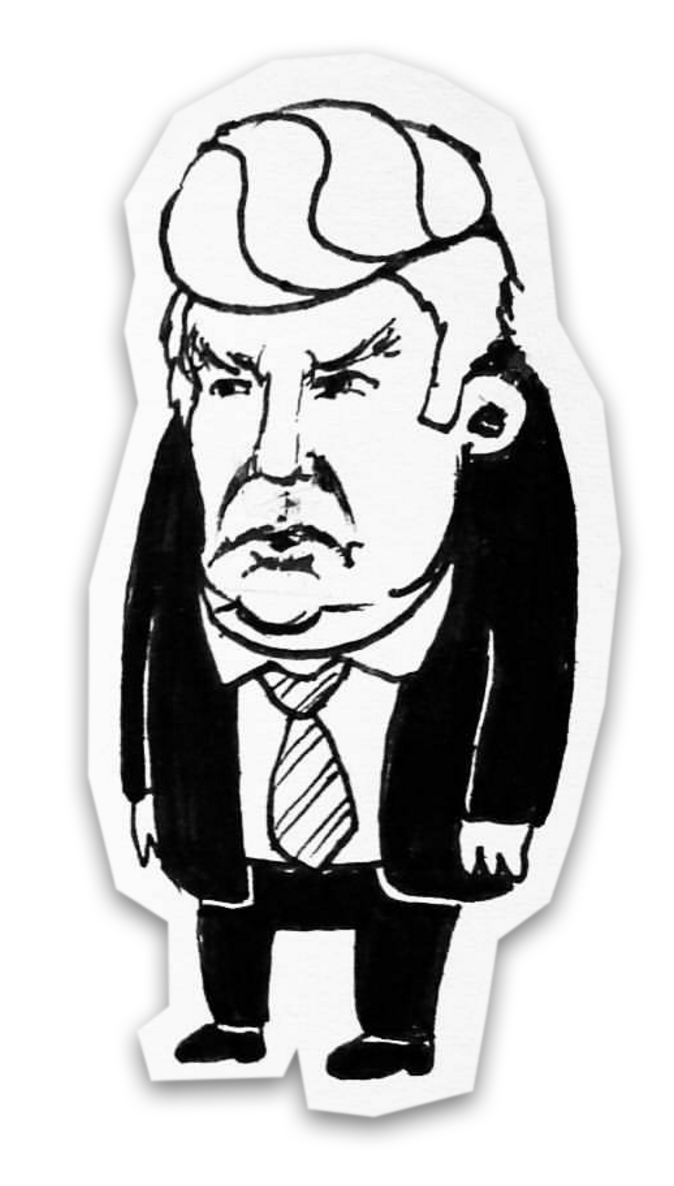
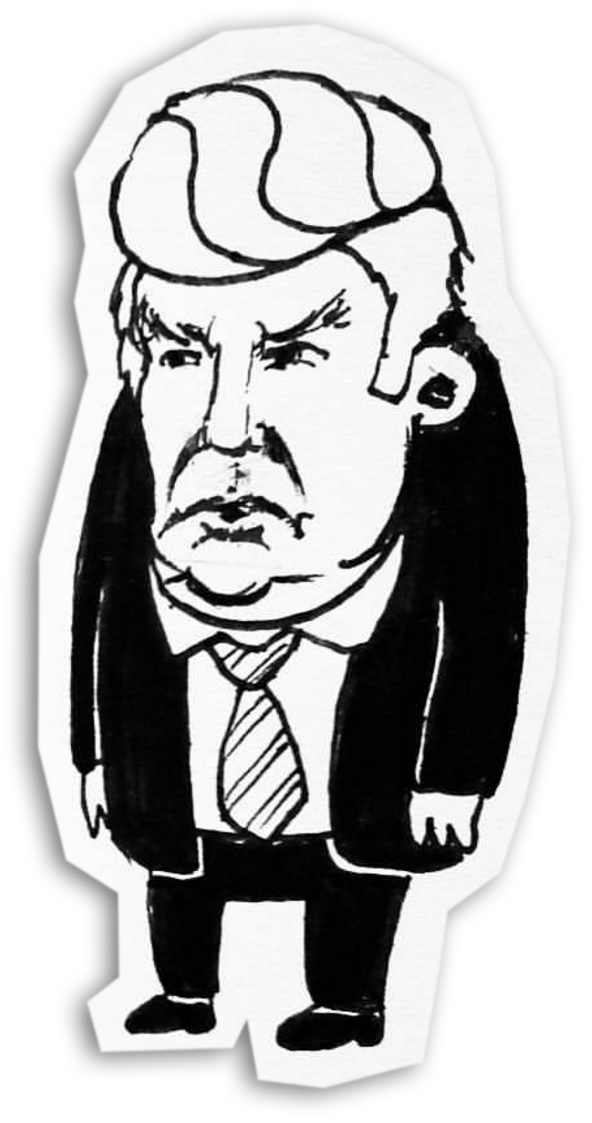
draw images to canvas at their positions

Changed region(s): [[0.0304, 0.0, 0.9426, 0.9973]]

diff --git a/client/app/views/Canvas.js b/client/app/views/Canvas.js
@@ -10,8 +10,13 @@ define(['jquery',
     var CanvasView = Backbone.View.extend({
 
       initialize: function () {
+        this.originalSceneSize = 1400;
         this.width = this.$el.width();
         this.height = this.$el.height();
+
+        this.scaleFactor = (this.width > this.height ? this.height : this.width) / this.originalSceneSize;
+        this.offsetX = (this.width - (this.originalSceneSize * this.scaleFactor)) / 2;
+        this.offsetY = (this.height - (this.originalSceneSize * this.scaleFactor)) / 2;
 
         // Create the renderer
         this.renderer = PIXI.autoDetectRenderer(this.width, this.height, {transparent: true});
@@ -22,10 +27,29 @@ define(['jquery',
         // Create a container object
         this.stage = new PIXI.Container();
 
-        // Tell the renderer to render the stage
-        this.renderer.render(this.stage);
-      }
+        this.update();
+      },
 
+      update: function () {
+        this.renderer.render(this.stage);
+      },
+
+      drawImage: function (imagePath, originalPos) {
+        PIXI.loader.add(imagePath).load(imageHasLoaded.bind(this));
+
+        function imageHasLoaded() {
+          var image = new PIXI.Sprite( PIXI.loader.resources[imagePath].texture );
+
+          image.width = image.width * this.scaleFactor;
+          image.height = image.height * this.scaleFactor;
+          image.position.x = this.offsetX + (originalPos.x * this.scaleFactor);
+          image.position.y = this.offsetY + (originalPos.y * this.scaleFactor);
+
+          this.stage.addChild(image);
+
+          this.update();
+        }
+      }
     });
 
     return CanvasView;

diff --git a/client/app/views/Build.js b/client/app/views/Build.js
@@ -46,15 +46,18 @@ define(['jquery',
       },
 
       shown: function () {
-        this.canvas = new Canvas({el: "#drawingCanvas"});
-
-        var tl = new TimelineMax();
+        var tl = new TimelineMax({onComplete: showAnimEnded.bind(this)});
         tl.fromTo(this.questionParts[0], .4, {opacity: 0, y: 20}, {opacity: 1, y: 0});
         tl.fromTo(this.questionParts[1], .5, {opacity: 0, y: 20}, {opacity: 1, y: 0}, '-=0.2');
         tl.fromTo(this.questionParts[2], .4, {opacity: 0, y: 20}, {opacity: 1, y: 0}, '-=0.2');
 
         tl.fromTo('.build__button.btn--danger', .2, {opacity: 0, scale: 0.2, y: 100}, {opacity: 1, scale: 1, y: 0, ease: Elastic.easeOut.config(1, 0.4)});
         tl.fromTo('.build__button.btn--success', .2, {opacity: 0, scale: 0.2, y: 100}, {opacity: 1, scale: 1, y: 0, ease: Elastic.easeOut.config(1, 0.4)});
+
+        function showAnimEnded() {
+          this.canvas = new Canvas({el: "#drawingCanvas"});
+          this.canvas.drawImage('img/trump.png', { x: 336, y: 191 });
+        }
       },
 
       loadQuestions: function () {
@@ -97,6 +100,8 @@ define(['jquery',
         this.selectedAnswers.push(answer);
 
         this.pickCurrentQuestion(true);
+
+        this.canvas.drawImage('img/glasses.png', { x: 408, y: 459 });
       }
     });
 
